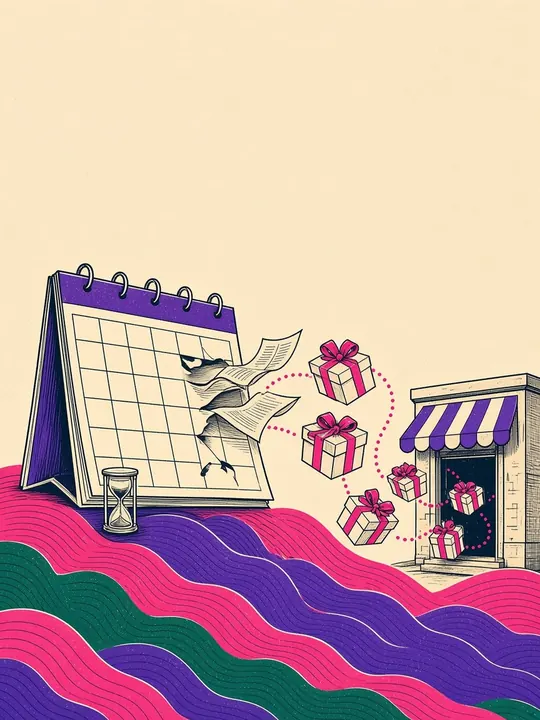
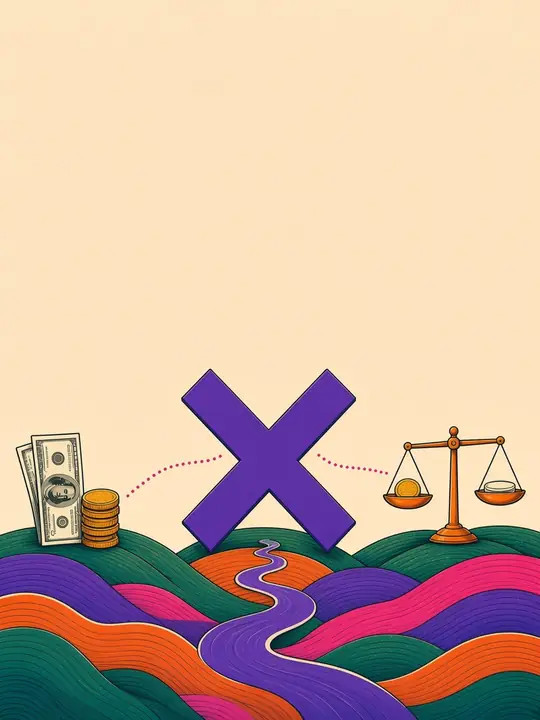
About v4: Return poster is earn times burn, unknown is not zero
Replace the gift-box scene with coins beside a dollar, multiplied by a scale that prices one coin, flowing out as the return on spend. If either input is unknown, Return cannot be calculated yet.

diff --git a/about.html b/about.html
@@ -71,15 +71,15 @@
 <p class="v4p-k v4seg-k" id="v4seg-k">Earn today · points per $1</p>
 <div class="v4seg earn" role="group" aria-labelledby="v4seg-k"><button type="button" data-r="0" aria-pressed="false">Nothing <small>0 points</small></button><button type="button" data-r="1" aria-pressed="true">1 <small>point per $1</small></button><button type="button" data-r="1.5" aria-pressed="false">1.5 <small>points per $1</small></button><button type="button" data-r="2" aria-pressed="false">2 <small>points per $1</small></button></div>
 <p class="v4p-k v4seg-k" id="v4burn-k">Burn · cents per point</p>
-<div class="v4seg burn" role="group" aria-labelledby="v4burn-k"><button type="button" data-b="" aria-pressed="true">Not yet <small>Return waits</small></button><button type="button" data-b="1" aria-pressed="false">1.0¢ <small>per point</small></button><button type="button" data-b="1.6" aria-pressed="false">1.6¢ <small>per point</small></button><button type="button" data-b="2" aria-pressed="false">2.0¢ <small>per point</small></button></div>
+<div class="v4seg burn" role="group" aria-labelledby="v4burn-k"><button type="button" data-b="" aria-pressed="true">Not yet <small>still unknown</small></button><button type="button" data-b="1" aria-pressed="false">1.0¢ <small>per point</small></button><button type="button" data-b="1.6" aria-pressed="false">1.6¢ <small>per point</small></button><button type="button" data-b="2" aria-pressed="false">2.0¢ <small>per point</small></button></div>
 </div>
 <div class="v4res" aria-live="polite">
 <p class="v4p-k">Return on spend, est.</p>
-<p class="v4big wait" id="v4big"><span id="v4now">Set burn</span></p>
-<p class="v4unit" id="v4unit">Earn is 1 point per $1. Burn is not set, so Return is not calculated.</p>
+<p class="v4big wait" id="v4big"><span id="v4now">Unknown</span></p>
+<p class="v4unit" id="v4unit">Earn is 1 point per $1. Burn is still unknown, so Return cannot be calculated yet. Unknown is not zero.</p>
 <p class="v4per" id="v4mo"></p>
 <p class="v4leo"><b>Leo, Linden Row Insurance, est.</b> Earn 1.2 points per $1. At an illustrative burn of 1.6¢ a point, Return is 1.92¢ per $1. At 3.4 points per $1, the same burn is 5.44¢ per $1. Not a promise.</p>
-<p class="v4ver" id="v4ver">The fee sits beside the math. It is not a savings claim.</p>
+<p class="v4ver" id="v4ver">No return figure yet. An unknown input is not zero, and the $550 fee is not a savings figure.</p>
 <p class="v4fee"><b>First Officer is $550 a month, flat.</b> <span>Month to month, no minimum term.</span></p>
 <a class="v4lnk" href="calculator.html">Run it line by line in the calculator <span aria-hidden="true">→</span></a>
 </div>
@@ -128,7 +128,7 @@
 <li class="e" data-anim style="--i:0"><span class="v4tag">Earn · bonus category</span><p class="v4wk-c">A supplier changed how its charges code. Your supply orders now earn 1x, not 3x.</p><p class="v4wk-d"><b>Desk read · use</b>Move that spend to a card that still pays on it, est.</p></li>
 <li class="b" data-anim style="--i:1"><span class="v4tag">Burn · transfer bonus</span><p class="v4wk-c">A 30% bonus opens to one airline partner, for nine days only.</p><p class="v4wk-d"><b>Desk read · check</b>Only worth it if a trip you want prices well. We check before a point moves.</p></li>
 <li class="b" data-anim style="--i:2"><span class="v4tag">Burn · award price</span><p class="v4wk-c">The same award seat now costs 15,000 more points.</p><p class="v4wk-d"><b>Desk read · cash wins</b>Price it in cash too. This time cash is the better buy, est.</p></li>
-<li class="r" data-anim style="--i:3"><span class="v4tag">Return · earn times burn</span><p class="v4wk-c">Supply orders now earn 1 point per dollar, and a cash out prices that point at 1¢.</p><p class="v4wk-d"><b>Desk read · both known</b>1 point per $1 × 1¢ a point = 1¢ per $1, est. If either number were missing, there would be no return to print.</p></li>
+<li class="r" data-anim style="--i:3"><span class="v4tag">Return · earn times burn</span><p class="v4wk-c">Supply orders now earn 1 point per dollar, and a cash out prices that point at 1¢.</p><p class="v4wk-d"><b>Desk read · both known</b>1 point per $1 × 1¢ a point = 1¢ per $1, est. If either number is unknown, Return cannot be calculated yet. Unknown is not zero.</p></li>
 </ul>
 <div class="v4wk-ft"><button type="button" class="v4wk-b" aria-expanded="false" aria-controls="v4wk">Hand it to the desk <span aria-hidden="true">→</span></button><p class="v4wk-s" id="v4wk-s" aria-live="polite">One message from your desk: 1 earn to move, 1 burn to check, 1 where cash wins, and a return only because both inputs are known, est.</p></div>
 <p class="v4wk-fine">Illustrative examples, est. Not real changes from any program this week.</p>
@@ -155,11 +155,11 @@
 <svg class="v4thr" data-anim viewBox="0 0 100 100" preserveAspectRatio="none" aria-hidden="true"><path d="M70 0 C70 50 30 50 30 100" vector-effect="non-scaling-stroke"/></svg>
 </li>
 <li class="v4job r"><div class="v4job-c">
-<div class="v4job-art" data-anim><img src="img/about-v4/return.webp" srcset="img/about-v4/return-540.webp 540w, img/about-v4/return.webp 864w" sizes="(max-width:760px) 92vw, 40vw" width="864" height="1152" alt="" loading="lazy" decoding="async"><span class="v4job-w" aria-hidden="true">Return</span></div>
+<div class="v4job-art" data-anim><img src="img/about-v4/return.webp" srcset="img/about-v4/return-540.webp 540w, img/about-v4/return.webp 864w" sizes="(max-width:760px) 92vw, 40vw" width="864" height="1152" alt="Earn, coins beside a dollar, times Burn, a scale pricing one coin. The violet path is the return on spend." loading="lazy" decoding="async"><span class="v4job-w" aria-hidden="true">Return</span></div>
 <div class="v4job-f" data-anim><div class="v4grain" aria-hidden="true"></div><p class="v4job-n">03 · Return</p><h3>Return on spend.</h3>
 <p class="v4job-eq">Earn × Burn = Return<span>points per $1 × cents per point = cents per $1</span></p>
 <dl class="v4job-d"><div><dt>The pain</dt><dd>You can see the points, and you can see a redemption, and still not know what the spend returned.</dd></div><div><dt>What the desk does</dt><dd>Multiplies applicable points per dollar by the value per point, and only when both are known.</dd></div><div><dt>What you get</dt><dd>The return on spend, in cents per dollar, est. An outcome of Earn and Burn.</dd></div></dl>
-<p class="v4job-t"><b>The tradeoff nobody mentions</b>A missing burn means no return. We do not fill the gap with a guess or a credit.</p></div></div>
+<p class="v4job-t"><b>The tradeoff nobody mentions</b>If Earn or Burn is unknown, Return cannot be calculated yet. Unknown is not zero. We do not guess a number to fill the gap.</p></div></div>
 <svg class="v4thr" data-anim viewBox="0 0 100 100" preserveAspectRatio="none" aria-hidden="true"><path d="M30 0 C30 50 70 50 70 100" vector-effect="non-scaling-stroke"/></svg>
 </li>
 <li class="v4job l"><div class="v4job-c">
@@ -186,7 +186,7 @@
 <label class="v4fl"><span class="v4p-k">Taxes and fees you'd still pay</span><span class="v4fl-i"><span aria-hidden="true">$</span><input id="v4f" type="number" inputmode="decimal" min="0" value="11"></span></label>
 <p class="v4form">( cash price − taxes and fees ) ÷ points = cents per point. That number is Burn.</p>
 <label class="v4fl"><span class="v4p-k">Earn, if you know it · points per $1</span><span class="v4fl-i"><input id="v4ern" type="number" inputmode="decimal" min="0" step="0.1" placeholder="Not set" aria-describedby="v4ros"></span></label>
-<p class="v4form" id="v4ros">Return waits. Burn alone is not a return. Set Earn, in points per $1, to multiply.</p>
+<p class="v4form" id="v4ros">Burn is shown for this example. Earn is still unknown, so Return cannot be calculated yet. Unknown is not zero.</p>
 </div>
 <div class="v4dial" aria-live="polite">
 <svg viewBox="0 -8 240 154" aria-hidden="true"><path d="M20 120 A100 100 0 0 1 220 120" fill="none" stroke="#141216" stroke-width="30"/><path d="M20 120 A100 100 0 0 1 70 33.4" fill="none" stroke="#E8590C" stroke-width="23"/><path d="M70 33.4 A100 100 0 0 1 130.45 20.55" fill="none" stroke="#429AD4" stroke-width="23"/><path d="M130.45 20.55 A100 100 0 0 1 220 120" fill="none" stroke="#107B49" stroke-width="23"/><path d="M70 33.4 L64 23M130.45 20.55 L131.7 8.6" stroke="#141216" stroke-width="3"/><g class="v4dt"><text x="20" y="136" text-anchor="middle">0¢</text><text x="60" y="22" text-anchor="end">1¢</text><text x="134" y="7" text-anchor="start">1.6¢</text><text x="220" y="136" text-anchor="middle">3¢+</text></g><g id="v4needle" transform="rotate(8.2 120 120)"><path d="M120 120 L120 30" stroke="#141216" stroke-width="6" stroke-linecap="round"/></g><circle cx="120" cy="120" r="11" fill="#FAF6EE" stroke="#141216" stroke-width="4"/></svg>
@@ -243,7 +243,7 @@
 <ul class="v4rules"><li>One message, not a dashboard</li><li>Plain words, the math attached</li><li>Your yes, or nothing moves</li></ul></figure>
 <div class="v4jar" data-anim>
 <p class="v4p-k" id="v4jw-k">Jargon, translated · tap a word</p>
-<div class="v4jw" role="group" aria-labelledby="v4jw-k"><button type="button" aria-pressed="true" data-t="A place your points can move to. Sometimes they buy a lot more there.">Transfer partner</button><button type="button" aria-pressed="false" data-t="Seats or rooms the program sells for points. Some dates have plenty, some have none.">Award space</button><button type="button" aria-pressed="false" data-t="The program quietly raises the points price. Same trip, more points.">Devaluation</button><button type="button" aria-pressed="false" data-t="Money the card gives back for a certain kind of spend, usually with a deadline. A perk. It is not Return.">Statement credit</button><button type="button" aria-pressed="false" data-t="A kind of spend that earns extra points, if the merchant codes it that way.">Bonus category</button><button type="button" aria-pressed="false" data-t="Burn. What one point is worth when you redeem it, in cents. A plain cash out is often near 1¢. This is not Return.">Cents per point</button><button type="button" aria-pressed="false" data-t="Earn times Burn: cents back per dollar of spend. Printed only when both are known.">Return</button></div>
+<div class="v4jw" role="group" aria-labelledby="v4jw-k"><button type="button" aria-pressed="true" data-t="A place your points can move to. Sometimes they buy a lot more there.">Transfer partner</button><button type="button" aria-pressed="false" data-t="Seats or rooms the program sells for points. Some dates have plenty, some have none.">Award space</button><button type="button" aria-pressed="false" data-t="The program quietly raises the points price. Same trip, more points.">Devaluation</button><button type="button" aria-pressed="false" data-t="Money the card gives back for a certain kind of spend, usually with a deadline. A perk. It is not Return.">Statement credit</button><button type="button" aria-pressed="false" data-t="A kind of spend that earns extra points, if the merchant codes it that way.">Bonus category</button><button type="button" aria-pressed="false" data-t="Burn. What one point is worth when you redeem it, in cents. A plain cash out is often near 1¢. This is not Return.">Cents per point</button><button type="button" aria-pressed="false" data-t="Earn times Burn: cents back per dollar of spend. If either input is unknown, Return cannot be calculated yet. Unknown is not zero.">Return</button></div>
 <div class="v4bub" aria-live="polite"><p class="v4p-k">In owner words</p><p class="v4bub-t" id="v4jt">A place your points can move to. Sometimes they buy a lot more there.</p></div>
 </div>
 </div>

diff --git a/assets/fo-about-v4.js b/assets/fo-about-v4.js
@@ -22,8 +22,8 @@ function cents(n){return n.toFixed(2).replace(/0+$/,'').replace(/\.$/,'')}
 function earnWords(r){if(r===0)return '0 points per $1';return (r%1?String(r):String(r))+' '+(r===1?'point':'points')+' per $1'}
 function calc(){var s=+sp.value;$('#v4spo').textContent='$'+fmt(s);sp.style.setProperty('--f',((s-sp.min)/(sp.max-sp.min)*100)+'%');
 var big=$('#v4big'),now=$('#v4now'),unit=$('#v4unit'),mo=$('#v4mo'),ver=$('#v4ver');
-if(burn==null){big.classList.add('wait');now.textContent='Set burn';unit.textContent='Earn is '+earnWords(rate)+'. Burn is not set, so Return is not calculated.';mo.textContent='';
-ver.textContent='The fee sits beside the math. It is not a savings claim.';
+if(burn==null){big.classList.add('wait');now.textContent='Unknown';unit.textContent='Earn is '+earnWords(rate)+'. Burn is still unknown, so Return cannot be calculated yet. Unknown is not zero.';mo.textContent='';
+ver.textContent='No return figure yet. An unknown input is not zero, and the $550 fee is not a savings figure.';
 stk.forEach(function(im){im.classList.add('off')});return}
 var per=rate*burn,monthly=s*rate*burn/100;
 big.classList.remove('wait');now.textContent=cents(per)+'¢';
@@ -49,8 +49,8 @@ ws.textContent=on?full:'Four alerts to read, decode and act on, on top of the ac
 var ci=$('#v4c'),pi=$('#v4pp'),fi=$('#v4f'),nd=$('#v4needle'),cv=$('#v4cv'),vd=$('#v4vd'),ern=$('#v4ern'),ros=$('#v4ros');
 function money(n){return n.toFixed(2).replace(/0+$/,'').replace(/\.$/,'')}
 function dial(){var c=+ci.value||0,p=+pi.value||0,f=+fi.value||0,raw=ern?ern.value.trim():'',earn=raw===''?null:Number(raw);
-if(!(p>0)){cv.textContent='Set points';if(nd)nd.style.transform='rotate(-90deg)';vd.className='v4vd b';vd.textContent='Burn needs the points a redemption costs. No cents per point, and no return.';
-if(ros)ros.textContent='Return waits. Burn is not known, so it is not calculated.';return}
+if(!(p>0)){cv.textContent='Unknown';if(nd)nd.style.transform='rotate(-90deg)';vd.className='v4vd b';vd.textContent='The points price is unknown, so Burn is unknown. Return cannot be calculated yet. Unknown is not zero.';
+if(ros)ros.textContent='Burn is unknown, so Return cannot be calculated yet. Unknown is not zero.';return}
 var v=Math.max(0,(c-f)/p*100),show=(v<10?v.toFixed(2):v.toFixed(1)).replace(/\.?0+$/,'');
 cv.textContent=show+'¢';
 if(nd)nd.style.transform='rotate('+(Math.min(3,v)/3*180-90).toFixed(1)+'deg)';
@@ -58,7 +58,7 @@ if(v<1){vd.className='v4vd b';vd.textContent='Burn under 1¢ a point, est. A pla
 else if(v<=1.6){vd.className='v4vd l';vd.textContent='Burn in the fair band, est. About 1¢ to 1.6¢ a point.'}
 else{vd.className='v4vd e';vd.textContent='Burn over 1.6¢ a point, est.'}
 if(!ros)return;
-if(earn==null||!isFinite(earn)||earn<0){ros.textContent='Return waits. Burn alone is not a return. Set Earn, in points per $1, to multiply.';return}
+if(earn==null||!isFinite(earn)||earn<0){ros.textContent='Burn is known. Earn is still unknown, so Return cannot be calculated yet. Unknown is not zero.';return}
 var shown=parseFloat(show);
 ros.textContent=money(earn)+' points per $1 × '+show+'¢ a point = '+money(earn*shown)+'¢ per $1, est.'}
 if(ci&&pi&&fi&&cv&&vd){[ci,pi,fi].forEach(function(i){i.addEventListener('input',function(){$$('.v4pre button').forEach(function(x){x.setAttribute('aria-pressed','false')});dial()})});
